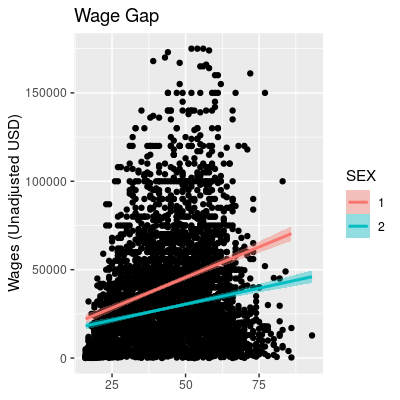
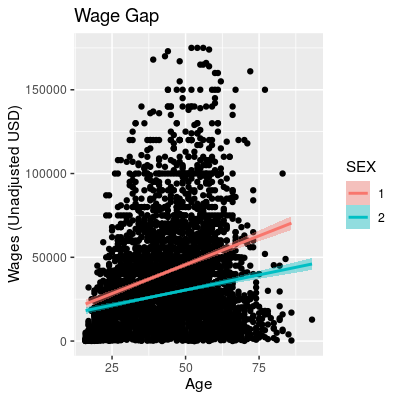
fix typos

diff --git a/docs/_slides/model.md b/docs/_slides/model.md
@@ -24,9 +24,14 @@ First, the scatterplot is stored as `Age_Wage`
 {:title="{{ site.data.lesson.handouts[0] }}" .text-document}
 
 
-```
-Age_Wage
-```
+
+
+~~~r
+> Age_Wage
+~~~
+{:title="Console" .input}
+![ ]({% include asset.html path="images/model/unnamed-chunk-3-1.png" %})
+{:.captioned}
 
 ===
 
@@ -38,7 +43,7 @@ Next, the regression line is added using `geom_smooth` using a linear model.
 Age_Wage + geom_smooth(method = 'lm')
 ~~~
 {:title="{{ site.data.lesson.handouts[0] }}" .text-document}
-![ ]({% include asset.html path="images/model/unnamed-chunk-3-1.png" %})
+![ ]({% include asset.html path="images/model/unnamed-chunk-4-1.png" %})
 {:.captioned}
 
 ===
@@ -54,11 +59,16 @@ wage_gap <- Age_Wage +
 {:title="{{ site.data.lesson.handouts[0] }}" .text-document}
 
 
-```
-wage_gap
-```
 
-To learn more about adding regression lines, such as how to change the confidence interval, see the `geom_smooth` [help page] (https://ggplot2.tidyverse.org/reference/geom_smooth.html)
+
+~~~r
+> wage_gap
+~~~
+{:title="Console" .input}
+![ ]({% include asset.html path="images/model/unnamed-chunk-6-1.png" %})
+{:.captioned}
+
+To learn more about adding regression lines, such as how to change the confidence interval, see the `geom_smooth` [help page](https://ggplot2.tidyverse.org/reference/geom_smooth.html)
 {:.notes}
 
 

diff --git a/docs/_slides/label.md b/docs/_slides/label.md
@@ -29,7 +29,7 @@ labeled elements in your plot (e.g. `x`, `y`, `title`) as arguments.
 ~~~r
 wage_gap + labs(
   title = 'Wage Gap',
-  x = NULL,
+  x = 'Age',
   y = 'Wages (Unadjusted USD)')
 ~~~
 {:title="{{ site.data.lesson.handouts[0] }}" .text-document}
